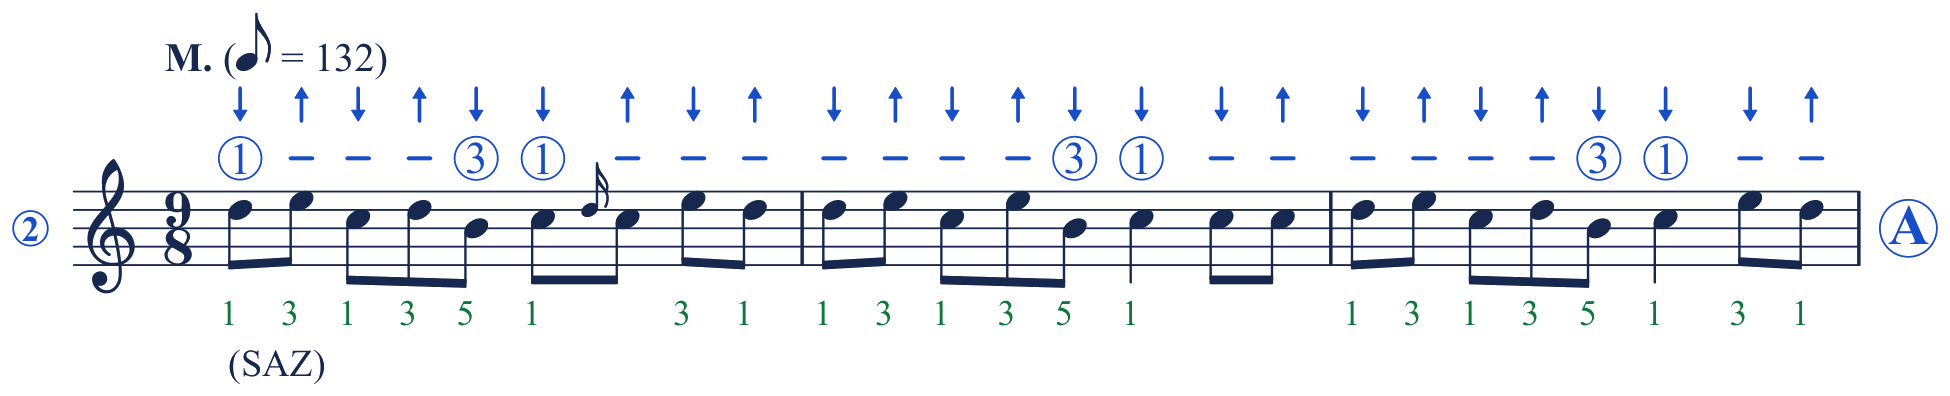
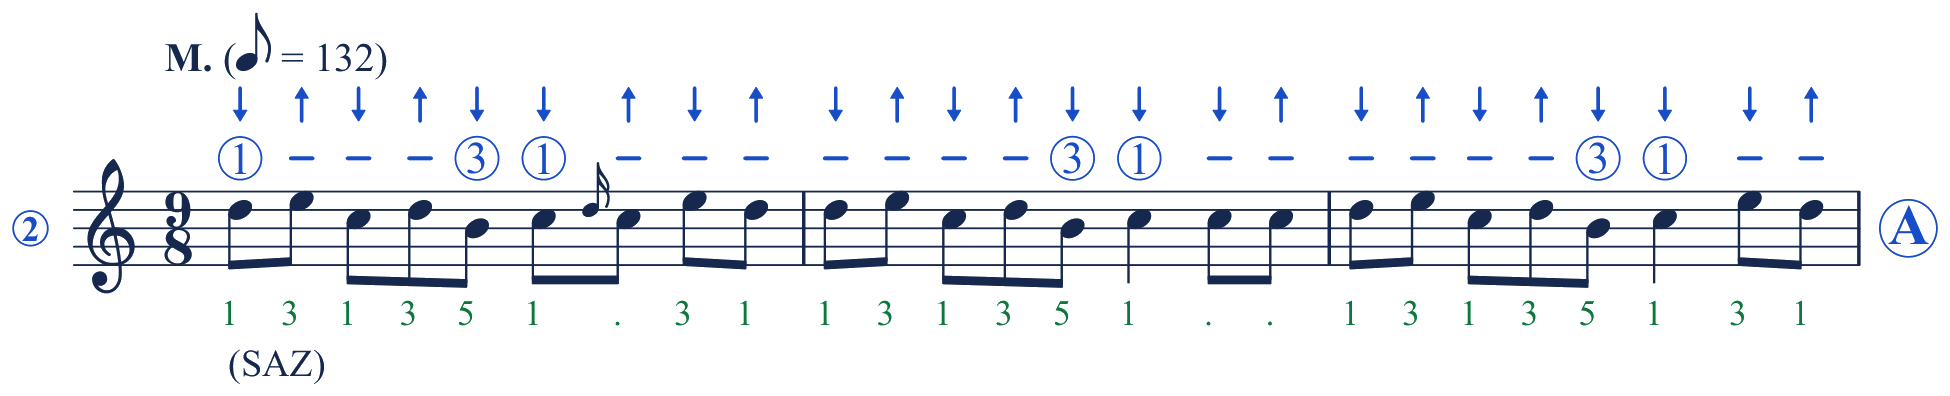
V91: SAZMETRI V0081 Kayanin Bedenleri recheck

diff --git a/notes.js b/notes.js
@@ -24,7 +24,8 @@ window.NOTES = {
 // V66: Hekimoğlu (Kitap 2 / 24): book page 42, groups A-D. No video yet: cue empty, perde from the SAZMETRI generator (open-string g' skipped).
 "Hekimoğlu": { dir: "notes/hekimoglu/", page: "notes/hekimoglu/sayfa.png?v=90", pageBW: "notes/hekimoglu/sayfa-sb.png?v=90", groups: ["A", "B", "C", "D"], cue: [], perde: { A: "10 11 11 11 11 10 10 10 10 7 10 10 7 4 7 4 10 7 10 4 7 4 7 3 4 4 4 7 10 11", B: "10 11 11 11 11 10 10 10 10 7 10 10 7 4 7 4 10 7 10 4 7 4 7 3 4 4 4 4", C: "4 4 4 4 7 4 7 10 4 10 11 14 14 14 14 17 11 14 10 11 14", D: "10 11 11 11 11 11 10 10 10 10 7 10 10 7 4 7 4 10 7 10 4 7 4 7 3 4 4 4 4" } },
 // V67: Kayanın Bedenleri (Kitap 2 / 25): book pages 43 + 44 stacked as one page; groups A-F (p.43), A2 (p.44 = G). No video yet: cue empty, perde from the SAZMETRI generator.
-"Kayanın Bedenleri": { dir: "notes/kayanin-bedenleri/", page: "notes/kayanin-bedenleri/sayfa.png?v=67", pageBW: "notes/kayanin-bedenleri/sayfa-sb.png?v=67", groups: ["A", "B", "C", "D", "E", "F", "A2"], cue: [], perde: { A: "7 10 4 7 3 4 4 10 7 7 10 4 10 3 4 4 4 7 10 4 7 3 4 10 7", B: "7 10 4 7 3 4 4 7 7 10 4 7 3 4 10 7 7 10 4 7 3 4 10 7", C: "7 10 11 14 10 10 7 10 11 14 10 7 7 4 7 3 4 7 7", D: "7 10 4 7 3 4 7 10 11 14 10 10 7 10 11 14 10", E: "7 10 4 7 3 4 10 7 7 10 4 7 3 4 7 10 4 7 3 4 4 10 7", F: "7 10 4 7 3 4 4 7 7 10 4 7 3 4 10 7 7 10 4 7 3 4 4 4", A2: "7 10 4 7 3 4 10 7 7 10 4 7 3 4" } },
+// V91: SAZMETRI V0081 Kayanin Bedenleri recheck (pitches, slurs, rests, dots, CO lyric): page, groups and perde rebuilt.
+"Kayanın Bedenleri": { dir: "notes/kayanin-bedenleri/", page: "notes/kayanin-bedenleri/sayfa.png?v=91", pageBW: "notes/kayanin-bedenleri/sayfa-sb.png?v=91", groups: ["A", "B", "C", "D", "E", "F", "A2"], cue: [], perde: { A: "7 10 4 7 3 4 4 10 7 7 10 4 7 3 4 4 4 7 10 4 7 3 4 10 7", B: "7 10 4 7 3 4 4 4 7 10 4 7 3 4 10 7 7 10 4 7 3 4", C: "7 10 11 14 10 10 7 10 11 14 10 7 10 4 7 3 4 10 7", D: "7 10 4 7 3 4 7 10 11 14 10 10 7 10 11 14 10", E: "7 10 4 7 3 4 10 7 7 10 4 7 3 4 7 10 4 7 3 4 4 10 7", F: "7 10 4 7 3 4 4 4 7 10 4 7 3 4 10 7 7 10 4 7 3 4 4 4", A2: "7 10 4 7 3 4 10 7 7 10 4 7 3 4" } },
 // V71: Biz Canları Güle Vermişiz (Kitap 2 / 26): book pages 43 + 44 stacked as one page; groups A, B, C, A2 (p.43), B2 (p.44). Cut with the V70 component method (edge ink 0). No video yet: cue empty, perde from the SAZMETRI generator.
 "Biz Canları Güle Vermişiz": { dir: "notes/biz-canlari-gule-vermisiz/", page: "notes/biz-canlari-gule-vermisiz/sayfa.png?v=71", pageBW: "notes/biz-canlari-gule-vermisiz/sayfa-sb.png?v=71", groups: ["A", "B", "C", "A2", "B2"], cue: [], perde: { A: "4 4 4 10 10 7 10 4 4 4 7 7 3 4 4 4 4 10 10 7 10", B: "4 4 4 7 7 3 4 4 4 4 7 7 3 4 4 4 4 10 10 7 10", C: "4 4 4 7 7 3 4 4 4 4 7 7 3 4 14 14 14 10 10 7 10", A2: "4 4 4 7 7 3 4 4 4 4 7 7 3 4 14 14 14 10 10 7 10", B2: "4 4 4 7 7 3 4 4 4 4 7 7 3 4" } },
 };

diff --git a/index.html b/index.html
@@ -557,7 +557,7 @@
 <script src="data.js?v=49"></script>
 <script src="media.js"></script>
 <script src="lyrics.js?v=87"></script>
-<script src="notes.js?v=90"></script>
+<script src="notes.js?v=91"></script>
 <script src="tools.js?v=40"></script>
 <script>
 const D = window.DATA;
@@ -633,7 +633,7 @@ function notes(name, msg, key){
     $('nt').firstChild.onclick = () => window.openPage && openPage(S.page, name, S.pageBW); }
   if (!S) { $('sheet').innerHTML = '<div class="ph">' + msg + '</div>'; sap(); return; }
   // V25 - one group (A, B, C ...) at a time; the letters on the right turn the page
-  $('sheet').innerHTML = '<div class="grp-view">' + S.groups.map(k => '<img class="nota" data-k="' + k + '" src="' + S.dir + k + '.png?v=90" alt="' + esc(name) + ' ' + k + '" hidden>').join('') + '</div>' +
+  $('sheet').innerHTML = '<div class="grp-view">' + S.groups.map(k => '<img class="nota" data-k="' + k + '" src="' + S.dir + k + '.png?v=91" alt="' + esc(name) + ' ' + k + '" hidden>').join('') + '</div>' +
     '<div class="grp-nav">' + S.groups.map(k => '<button data-k="' + k + '">' + k + '</button>').join('') + '</div>';
   const go = k => { $('sheet').querySelectorAll('[data-k]').forEach(e => e.tagName === 'IMG' ? e.hidden = e.dataset.k !== k : e.classList.toggle('on', e.dataset.k === k)); sap(S, k);
     // V40 - many groups: the list starts at the top (A) and slides down with the active letter
